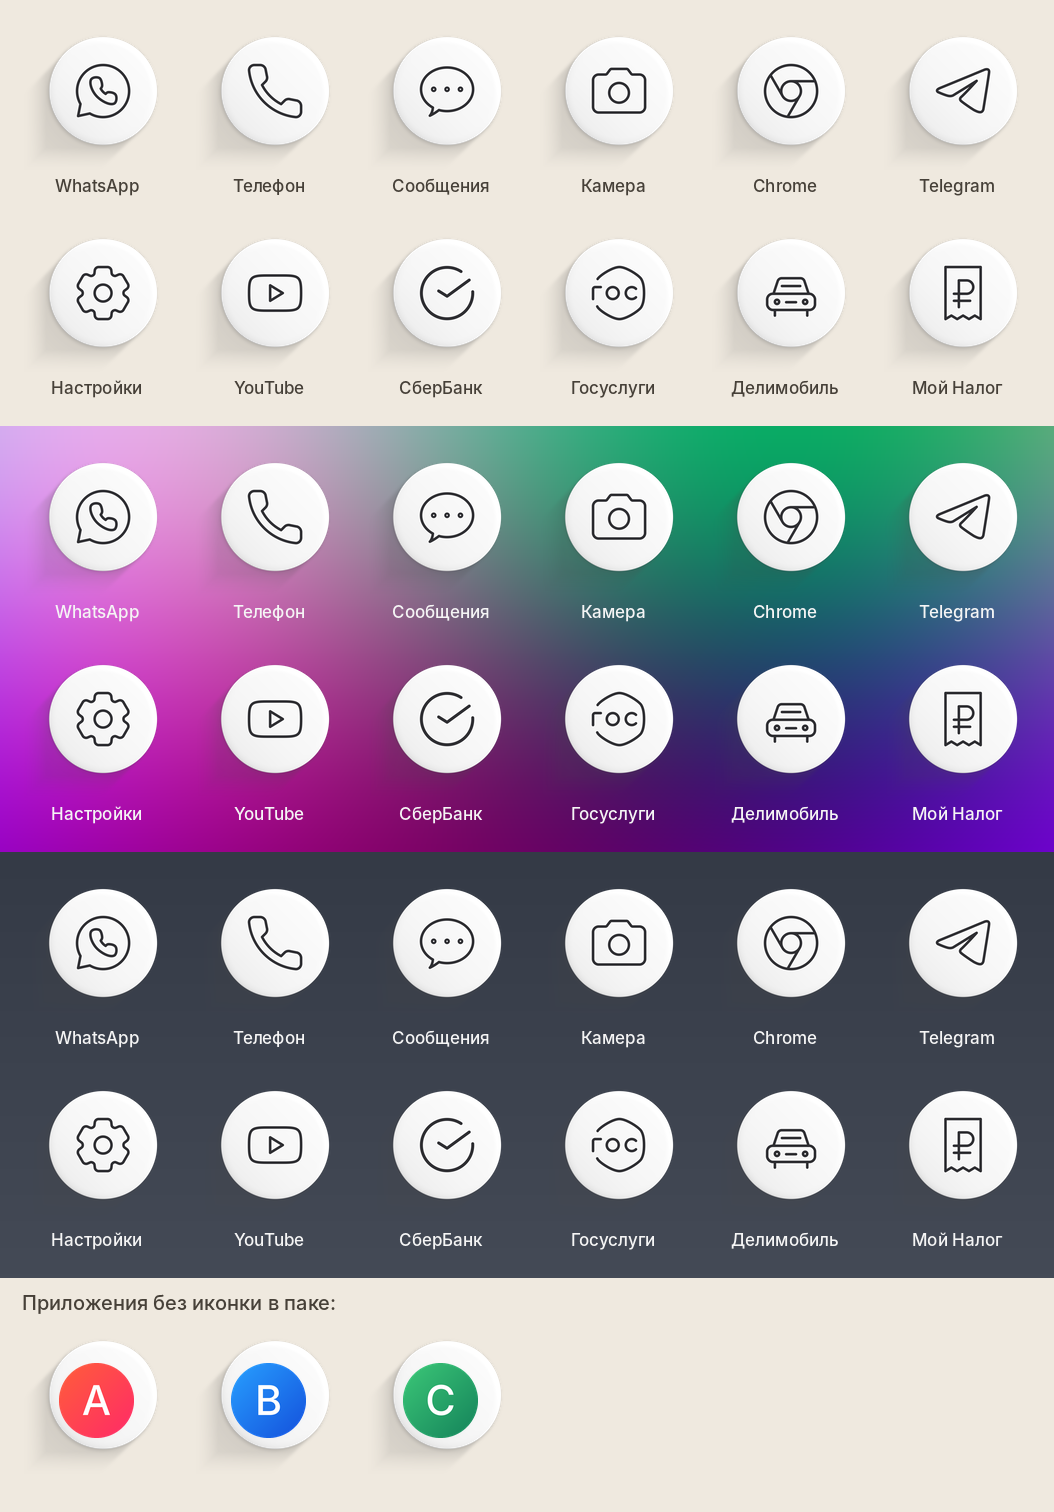
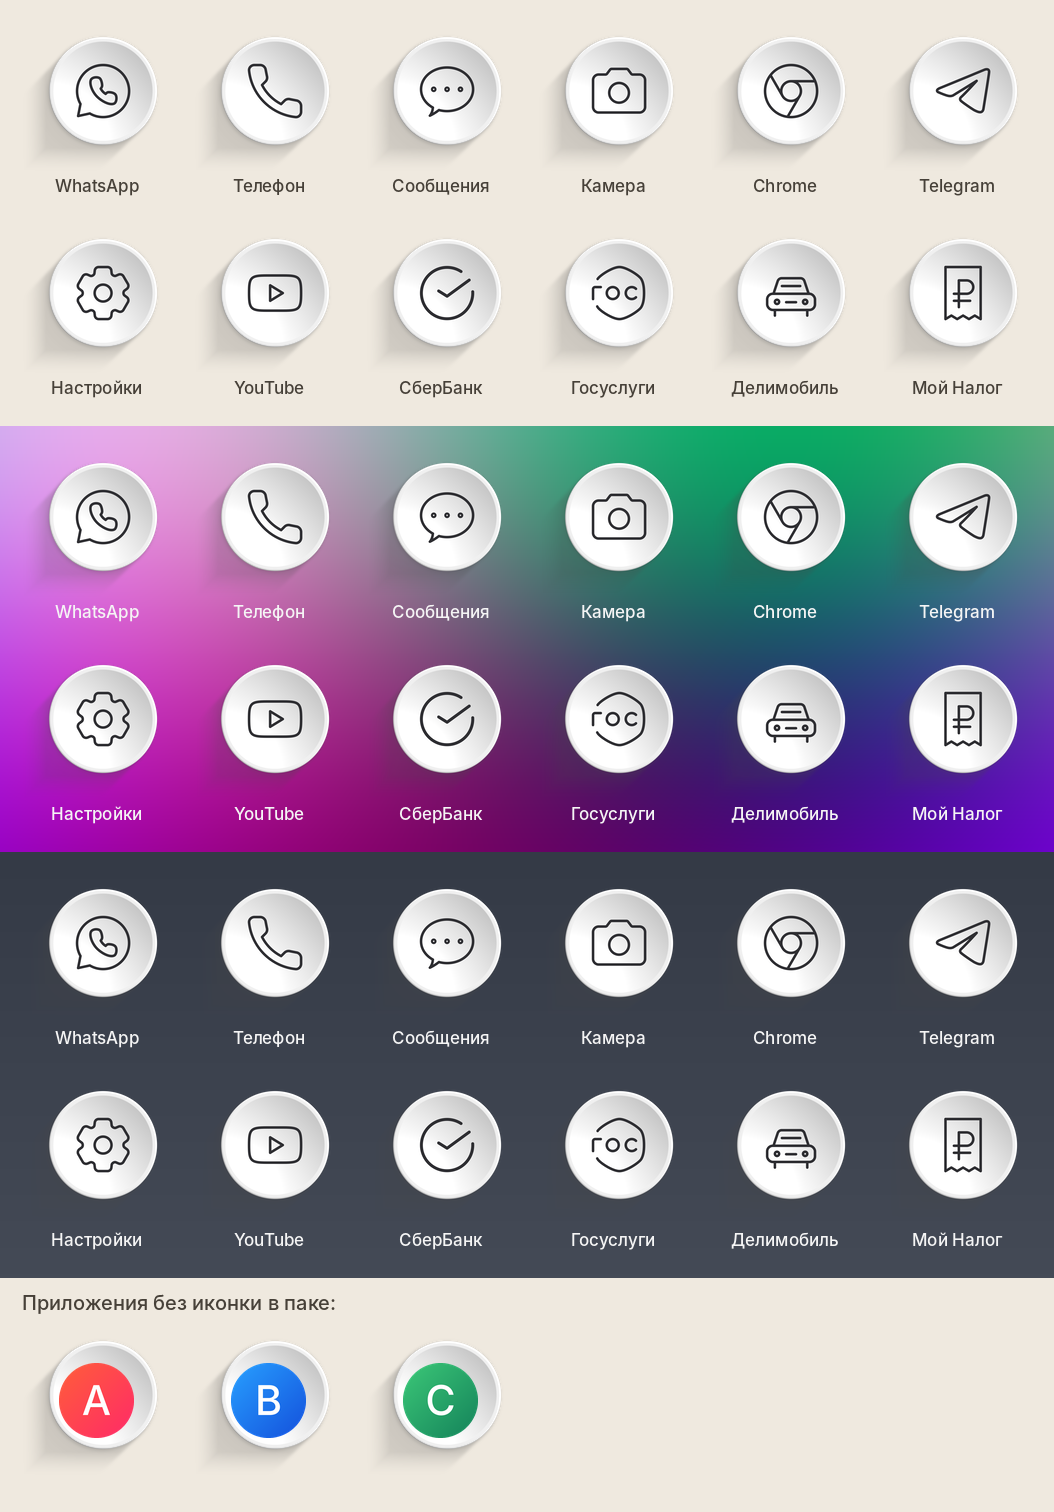
White: concave saucer top like the reference
Measured the reference: discs are darker at the top/right and brighter
at the bottom/left under top-right light, i.e. a dished top. Raised disc
with a thin rounded rim and a shallow parabolic saucer, stronger long
shadow.

Claude-Session: https://claude.ai/code/session_01TTZygDqZcvFS4wFVRUaD4t

diff --git a/tools/style_white.py b/tools/style_white.py
@@ -1,11 +1,13 @@
-""""White" style: white round tiles with thin line glyphs and a long shadow.
+""""White" style: a raised white disc with a concave, saucer-like top.
 
-Taken apart from the owner's reference picture:
- - a white disc, slightly domed: white towards the light (top-right), a soft
-   light grey towards the bottom-left edge;
- - light from the top-right, so a long soft shadow runs diagonally down-left,
-   the disc swept along that diagonal and fading out;
- - a thin dark line glyph (about 2.4 % of the disc's diameter), flat on the disc.
+Taken apart from the owner's reference picture (measured, not guessed):
+ - the disc is darker at the top and right and brighter at the bottom and left;
+   with the light coming from the top-right that is a dished (concave) top, a
+   shallow saucer, while the rounded outer edge catches a thin highlight at the
+   top-right - the round, white sibling of the graphite style;
+ - the disc stands on the wallpaper, so a long soft shadow runs diagonally
+   down-left, the disc swept along that diagonal and fading out;
+ - a thin dark line glyph (about 2.4 % of the disc's diameter) lies in the saucer.
 
 style(svg_text, name, out_size) -> PIL RGBA, plus back()/upon()/mask().
 """
@@ -31,7 +33,7 @@ def _long_shadow(disc):
     """The disc swept down-left along the diagonal, fading with distance."""
     k2 = 2
     small = disc.reshape(S // k2, k2, S // k2, k2).mean(axis=(1, 3))
-    n = int(0.5 * S / k2)
+    n = int(0.6 * S / k2)
     acc = np.zeros_like(small)
     for k in range(1, n):
         np.maximum(acc, shift(small, -k, k) * (1 - k / n) ** 0.9, out=acc)
@@ -45,15 +47,16 @@ def _base(c: Canvas):
     # fade the long shadow out before the edges of the icon, so it never ends in a hard line
     border = np.minimum(np.minimum(XX, S - 1 - XX), np.minimum(YY, S - 1 - YY))
     fade = np.clip(border / (0.16 * S), 0, 1) ** 1.5
-    c.over(SHADOW, _long_shadow(disc) * 0.17 * fade * (1 - disc))
+    c.over(SHADOW, _long_shadow(disc) * 0.22 * fade * (1 - disc))
     c.over(SHADOW, blur(shift(disc, -0.006 * S, 0.008 * S), 0.012 * S) * 0.22 * (1 - disc))
-    h = dome(sd, 0.05 * S, 0.012 * S)
-    shade, spec, _ = light(h, L=LIGHT, power=20)
-    u = ((XX - DCX) - (YY - DCY)) / (2 * R)          # +1 towards the light, -1 away
-    col = 247 + 7 * np.clip(u, -1, 1) + shade * 45 + spec * 10
-    col = col - 10 * np.clip(-u, 0, 1) ** 2
-    edge = np.clip(1 - np.abs(sd - 0.002 * S) / (0.003 * S), 0, 1) * np.clip(-u + 0.2, 0, 1)
-    col = col * (1 - 0.12 * edge)
+    # height field: rounded outer edge, then a shallow parabolic saucer inside it
+    rim = 0.03 * S
+    h = dome(sd, 0.013 * S, 0.008 * S)
+    r = np.hypot(XX - DCX, YY - DCY) / (R - rim)
+    h = h - 0.075 * S * np.clip(1 - r ** 2, 0, 1) * cov(sd - rim * 0.3)
+    h = blur(h, 1.5)
+    shade, spec, _ = light(h, L=LIGHT, power=24)
+    col = 240 + shade * 115 + spec * 25
     c.over(np.repeat(np.clip(col, 0, 255)[..., None], 3, axis=2), disc)
     return disc
 
